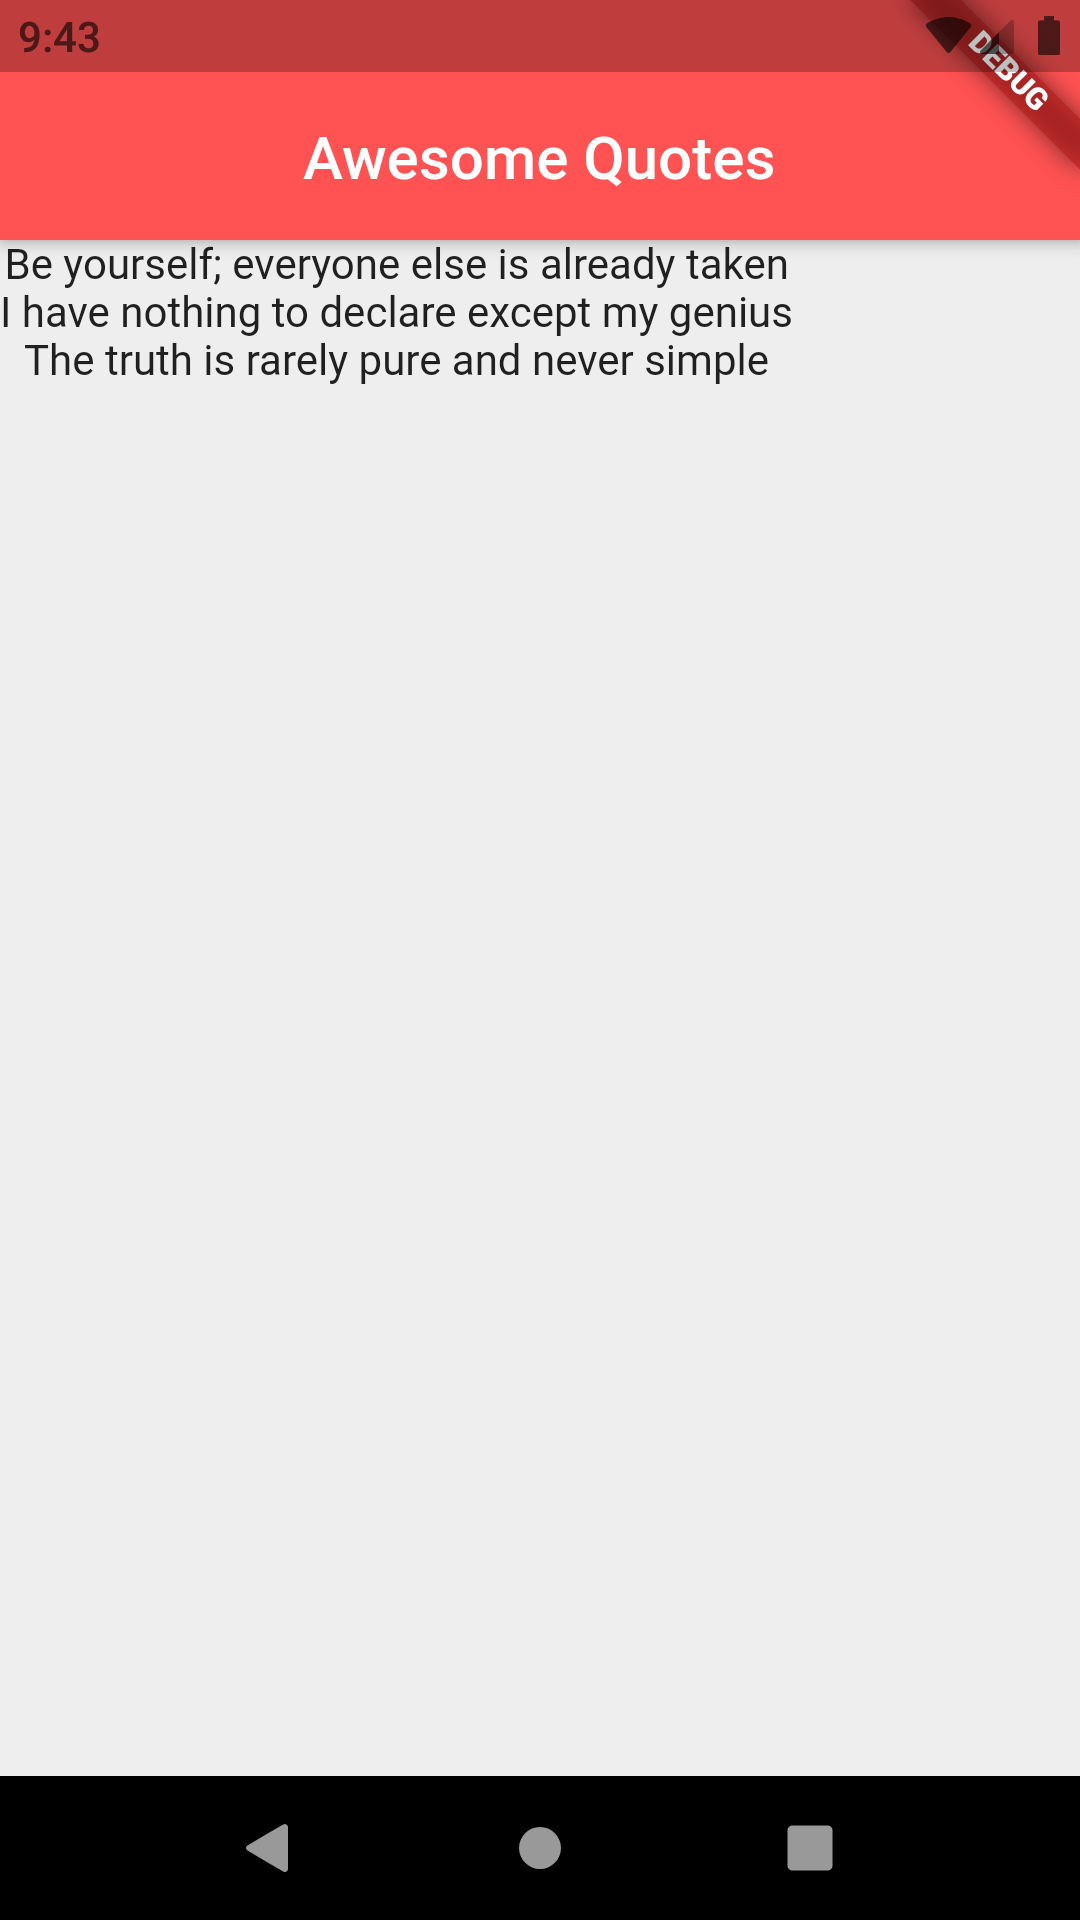
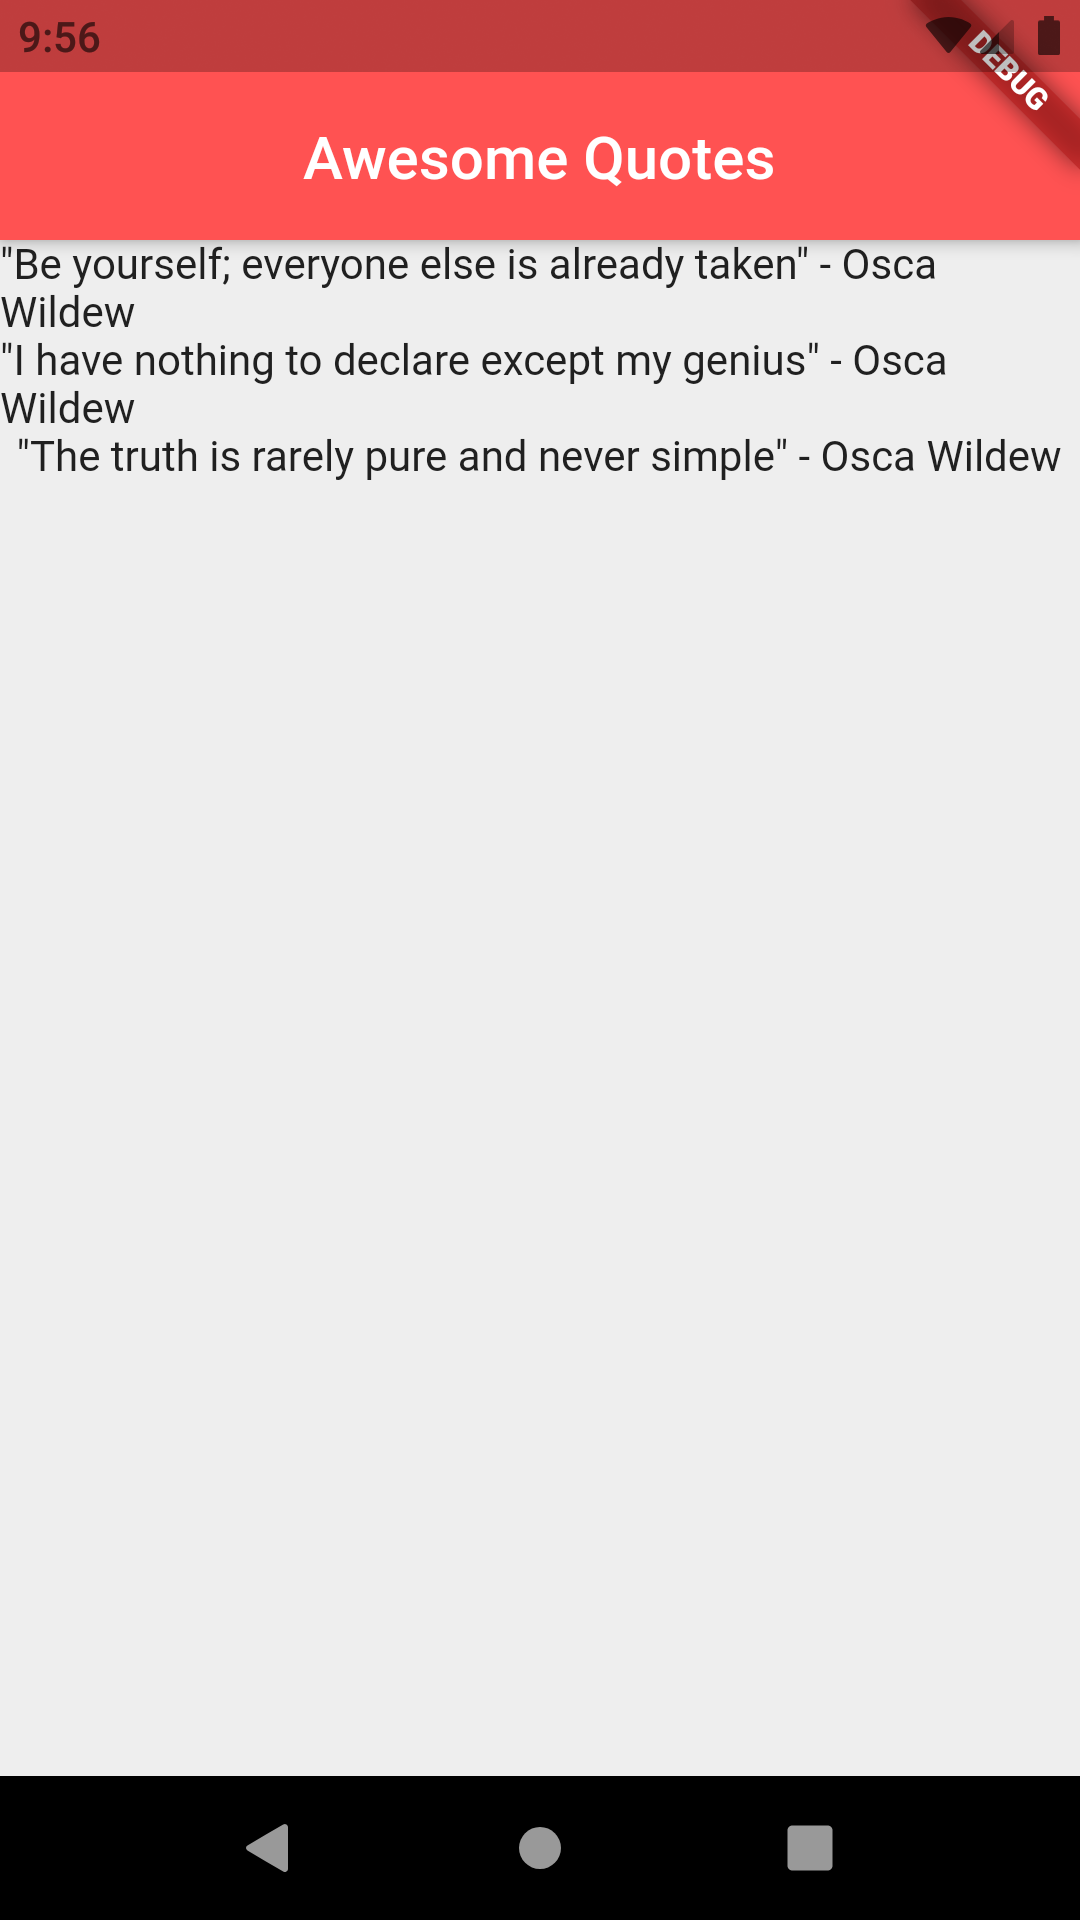
custom data class

diff --git a/lib/main.dart b/lib/main.dart
@@ -1,4 +1,5 @@
 import 'package:flutter/material.dart';
+import 'quote.dart';
 
 void main() => runApp(MaterialApp(
       home: QuoteList(),
@@ -10,10 +11,16 @@ class QuoteList extends StatefulWidget {
 }
 
 class _QuoteListState extends State<QuoteList> {
-  List<String> quotes = [
-    'Be yourself; everyone else is already taken',
-    'I have nothing to declare except my genius',
-    'The truth is rarely pure and never simple'
+  List<Quote> quotes = [
+    Quote(
+        author: 'Osca Wildew',
+        text: 'Be yourself; everyone else is already taken'),
+    Quote(
+        author: 'Osca Wildew',
+        text: 'I have nothing to declare except my genius'),
+    Quote(
+        author: 'Osca Wildew',
+        text: 'The truth is rarely pure and never simple'),
   ];
 
   @override
@@ -26,7 +33,9 @@ class _QuoteListState extends State<QuoteList> {
         backgroundColor: Colors.redAccent,
       ),
       body: Column(
-        children: quotes.map((quote) => Text(quote)).toList(),
+        children: quotes
+            .map((quote) => Text('"${quote.text}" - ${quote.author}'))
+            .toList(),
       ),
     );
   }

diff --git a/lib/quote.dart b/lib/quote.dart
@@ -1,0 +1,26 @@
+class Quote {
+  String text;
+  String author;
+
+  // normal constructor, as we've already seen
+  // Quote(String text, String author){
+  //   this.text = text;
+  //   this.author = author;
+  // }
+  // usage:
+  // Quote('Lorem Ipsum', 'Someone');
+
+  // constructor with named parameters
+  // Quote({ String author, String text }){
+  //   this.text = text;
+  //   this.author = author;
+  // }
+  // usage:
+  // Quote(text: 'Lorem Ipsum', author: 'Someone');
+
+  // constructor with named parameters
+  // & automatically assigns named arguments to class properties
+  Quote({this.text, this.author});
+  // usage:
+  // Quote(text: 'Lorem Ipsum', author: 'Someone');
+}
